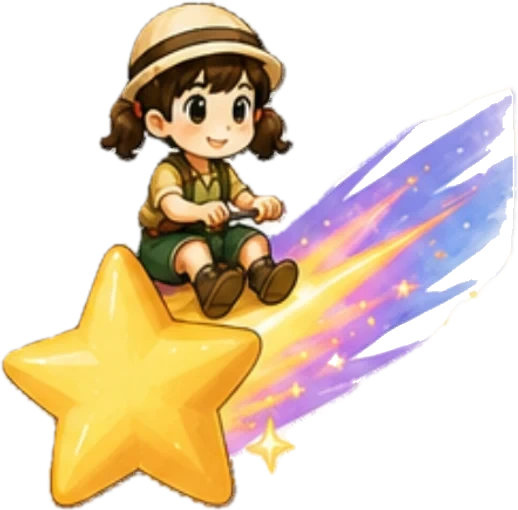
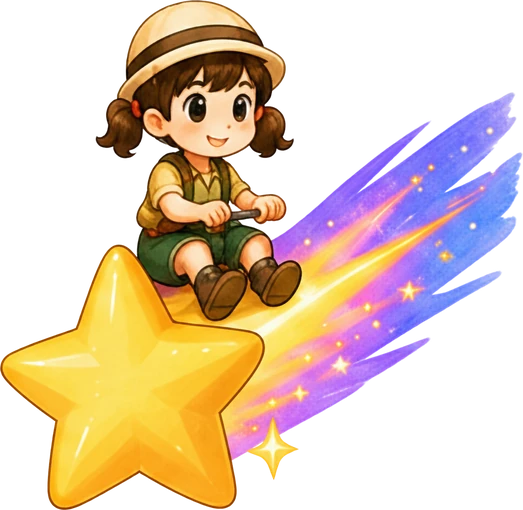
미션탭 유성 탈것 남녀 디자인 교체 (v2) (#718)
사용자가 유성 탈것 남녀 그림을 다시 그려 줬다. 받은 PNG 에 약알파(1~19)
픽셀이 21,000~23,000개 깔려 있어 20 미만을 0 으로 눌러 자른 뒤, 기존과
같은 높이(510px)로 맞춰 탑재했다 — 이 탈것은 MOUNTS 테이블에 크기
보정값(meteor:1.03)이 따로 있어, 높이만 맞추면 코드 변경 없이 그대로
적용된다.

꼬리의 작은 반짝임 몇 개가 몸통과 안 이어져 연결 조각이 2~3개로 나오는데
원화에 흩어져 그려진 별똥·반짝이라 의도된 것이다.

구버전 원화(meteor-src.webp · meteor-girl-src.webp)와 README 행은
규칙 6 대로 v2 로 교체했다.

Claude-Session: https://claude.ai/code/session_018maNuYqDfFyRSe9uKpZhPR

Changed region(s): [[0.0, 0.0, 1.0, 1.0], [0.1544, 0.8235, 0.1853, 0.8529]]

diff --git a/art-src/README.md b/art-src/README.md
@@ -447,7 +447,7 @@ getBoundingClientRect로 재서 정한다. 2026-08-05 점검에서 이 기준을
 | expedition/ride/reindeersled-src.webp | 탑승 원화 30 순록 썰매 — 설원 대표 | expedition/ride/reindeersled.webp |
 | expedition/ride/iceslide-src.webp | 탑승 원화 29 얼음 미끄럼틀 — 설원 변형 | expedition/ride/iceslide.webp |
 | expedition/ride/rocket-src.webp | 탑승 원화 16 로켓 — 하늘섬 변형 (우주 챕터 기본 예정) | expedition/ride/rocket.webp |
-| expedition/ride/meteor-src.webp | 탑승 원화 26 유성 — 우주 대표 | expedition/ride/meteor.webp |
+| expedition/ride/meteor-v2-src.webp / meteor-girl-v2-src.webp | 탑승 원화 26 유성 v2 — 우주 대표, 남녀 디자인 소폭 수정(사용자 재작업, 2026-09-28 탑재). 받은 PNG 에 약알파(1~19) 픽셀이 21,000~23,000개 깔려 있어 20 미만을 0 으로 눌러 자른 뒤 기존과 같은 높이(510px)로 맞췄다. 꼬리의 작은 반짝임 조각 몇 개가 몸통과 안 이어져 연결 조각이 2~3개로 나오는데, 원화에 흩어져 그려진 별똥·반짝이라 의도된 것 — 지우지 않는다 | expedition/ride/meteor(-girl).webp |
 | expedition/ride/motorbike-src.webp | 탑승 원화 27 오토바이 — 사막 변형 (탈것+앉은 캐릭터 한 장, halo 보정 후 탑재) | expedition/ride/motorbike.webp |
 | expedition/ride/sandboard-src.webp | 탑승 원화 28 모래 보드 — 사막 변형 (탈것+앉은 캐릭터 한 장, halo 보정 후 탑재) | expedition/ride/sandboard.webp |
 | expedition/ride/submarine-src.webp | 탑승 원화 32 잠수정 — 바다 변형 (탈것+앉은 캐릭터 한 장, halo 보정 후 탑재) | expedition/ride/submarine.webp |
